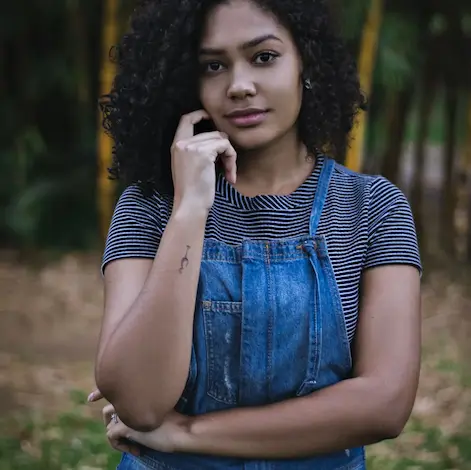
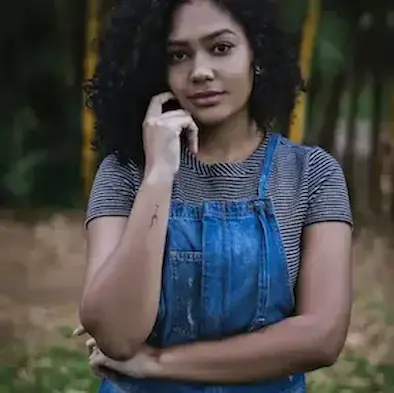
changement images /minifications

diff --git a/index.html b/index.html
@@ -12,16 +12,16 @@
     <meta name="twitter:description" content="Nina Carducci, photographe à Bordeaux, vous aidera à rendre vos moments uniques mémorables avec ses services de Shooting photo, Retouches photo et Album photo.">
     <meta name="twitter:creator" content="@Nina_Carducci">
     <meta name="twitter:image" content="./assets/images/Photo_Nina_Carducci">
-	<link rel="stylesheet" href="./assets/bootstrap/bootstrap.css">
-	<link rel="stylesheet" href="./assets/style.css">
+	<link rel="stylesheet" href="https://cdn.jsdelivr.net/npm/bootstrap@5.2.3/dist/css/bootstrap.min.css" integrity="sha384-rbsA2VBKQhggwzxH7pPCaAqO46MgnOM80zW1RWuH61DGLwZJEdK2Kadq2F9CUG65" crossorigin="anonymous" async>
+	<link rel="stylesheet" href="./assets/style.min.css" async>
 	<link rel="preconnect" href="https://fonts.googleapis.com">
 	<link rel="preconnect" href="https://fonts.gstatic.com" crossorigin>
 	<link href="https://fonts.googleapis.com/css2?family=Inter&family=Spectral:ital,wght@0,400;1,300;1,400;1,800&display=swap" rel="stylesheet">
 	
-	<script src="./assets/bootstrap/bootstrap.bundle.js"></script>
-	<script src="https://code.jquery.com/jquery-3.4.1.min.js" integrity="sha256-CSXorXvZcTkaix6Yvo6HppcZGetbYMGWSFlBw8HfCJo=" crossorigin="anonymous"></script>
-	<script src="./assets/maugallery.js"></script>
-	<script src="./assets/scripts.js"></script>
+	<script src="https://cdn.jsdelivr.net/npm/bootstrap@5.2.3/dist/js/bootstrap.bundle.min.js" integrity="sha384-kenU1KFdBIe4zVF0s0G1M5b4hcpxyD9F7jL+jjXkk+Q2h455rYXK/7HAuoJl+0I4" crossorigin="anonymous" defer></script>
+	<script src="https://code.jquery.com/jquery-3.4.1.min.js" integrity="sha256-CSXorXvZcTkaix6Yvo6HppcZGetbYMGWSFlBw8HfCJo=" crossorigin="anonymous" defer></script>
+	<script src="./assets/maugallery.min.js" defer></script>
+	<script src="./assets/scripts.min.js" defer></script>
 </head>
 
 <body>
@@ -50,13 +50,13 @@
 		</div>
 		<div class="carousel-inner">
 			<div class="carousel-item active">
-				<img src="./assets/images/desktop/slider/Photo_homme_sur_passage_piétons.webp" width="1654px"height="765px" srcset="./assets/images/desktop/slider/Photo_homme_sur_passage_piétons.webp 1450w, .assets/images/desktops/slider/Photo_homme_sur_passage_piétons.webp 650w"    class="d-block w-100" alt="Background photo de piétons" >
+				<img src="./assets/images/desktop/slider/Photo_homme_sur_passage_piétons.webp" width="1871px" height="865px" srcset="./assets/images/desktop/slider/Photo_homme_sur_passage_piétons.webp 1450w,./assets/images/phone/slider/Photo_homme_sur_passage_piétons.webp 450w" class="d-block w-100" alt="Background photo de piétons" >
 			</div>
 			<div class="carousel-item">
-				<img src="./assets/images/desktop/slider/Photo_gens_concert.webp" width="1654px"height="765px" srcset="./assets/images/desktop/slider/Photo_gens_concert.webp 1450w,.assets/images/desktop/slider/Photo_gens_concert 650w"   class="d-block w-100" alt="Background photo d'un public acclamant l'animateur">
+				<img src="./assets/images/desktop/slider/Photo_gens_concert.webp" srcset="./assets/images/desktop/slider/Photo_gens_concert.webp 1450w,./assets/images/phone/slider/Photo_gens_concert.webp 425w" class="d-block w-100" alt="Background photo d'un public acclamant l'animateur">
 			</div>
 			<div class="carousel-item">
-				<img src="./assets/images/desktop/slider/Photo_mariage.webp"width="1654px"height="765px"srcset="./assets/images/desktop/slider/Photo_mariage.webp 1450w , .assets/images/desktop/slider/Photo_mariage 650w" class="d-block w-100" alt="Background photo de mariés s'embrassant avec l'acclamations des proches ">
+				<img src="./assets/images/desktop/slider/Photo_mariage.webp" srcset="./assets/images/desktop/slider/Photo_mariage.webp 1450w,./assets/images/phone/slider/Photo_mariage.webp 425w" class="d-block w-100" alt="Background photo de mariés s'embrassant avec l'acclamations des proches ">
 			</div>
 		</div>
 		<button class="carousel-control-prev" type="button" data-bs-target="#carouselExampleIndicators" data-bs-slide="prev">
@@ -72,11 +72,11 @@
 
 <section id="about">
 	<div class="picture left">
-		<img src="./assets/images/desktop/nina.webp" width="471px" height="470px" srcset="./assets/images/desktop/nina.webp 1450w, ./assets/images/desktop/nina.webp 650w" alt="photo de Nina Carducci">
+		<img src="./assets/images/desktop/nina.webp" width="278px" height="542px" srcset="./assets/images/desktop/nina.webp 1450w,./assets/images/phone/nina.webp 245w"  alt="photo de Nina Carducci">
 	</div>
 	<div id="about-me">
 	<h2 class="about-me__title">A propos de moi</h2>
-		<p class="about-me__introduction">Devenir photographe était pour moi une évidence. Comme si j’y étais <br> prédestiné. Saisir un moment, une émotion, une situation, un <br>endroit, une lumière et les rendre immortels, voilà ce qui me fait vibrer.</p>
+		<p class="about-me__introduction">Devenir photographe était pour moi une évidence. Comme si j’y étais prédestiné. Saisir un moment, une émotion, une situation, un endroit, une lumière et les rendre immortels, voilà ce qui me fait vibrer.</p>
 		<p>Nous passons notre vie à chercher le bonheur, et lorsque nous y touchons, nous n’avons qu’une envie : le figer au travers de photographies pour le savourer avec les personnes qui sont importantes à nos yeux, ou le partager au plus grand nombre.
 			C’est ce que je vous propose : saisir ces merveilleux moments au travers de mon regard, mon approche, ma technique. Rendre ces moments immortels, afin que vous puissiez y puiser de l’amour, du bonheur, de la tendresse et de lumière à chaque fois que vous poserez les yeux sur vos photos.</p>
 	</div>
@@ -86,15 +86,15 @@
 	<h2 class="title">Portfolio</h2>
 	<div class="container py-3">
 		<div class="gallery" style="display: none">
-			<img data-gallery-tag="Concert" class="gallery-item" src="./assets/images/gallery/aaron-paul.webp"  height="424px" width="420px" srcset="./assets/images/gallery/aaron-paul.webp 1450w,./assets/images/gallery/aaron-paul.webp 650w"  alt="Photo concert rempli de monde avec lumière rouge.">
-			<img data-gallery-tag="Entreprises"class="gallery-item" src="./assets/images/gallery/ali-morshedlou.webp" height="424px" width="420px" srcset="./assets/images/gallery/ali-morshedlou.webp 1450w,./assets/images/gallery/ali-morshedlou.webp 650w "  alt="photo d'une entreprise">
-			<img data-gallery-tag="Entreprises" class="gallery-item" src="./assets/images/gallery/jason-goodman.webp" height="424px" width="420px" srcset="./assets/images/gallery/jason-goodman.webp 1450w,./assets/images/gallery/jason-goodman.webp 650w" alt="Photo d'une femme souriant lors d'une réunion en entreprise.">
-			<img data-gallery-tag="Mariages"class="gallery-item" src="./assets/images/gallery/hannah-busing.webp" height="424px" width="420px" srcset="./assets/images/gallery/hannah-busing.webp 1450w,./assets/images/gallery/hannah-busing.webp 650w" alt="Photo des mains de mariés avec alliance sur la mariée.">
-			<img data-gallery-tag="portrait"class="gallery-item" src="./assets/images/gallery/ade-tunji.webp" height="424px" width="420px" srcset="./assets/images/gallery/ade-tunji.webp 1450w,./assets/images/gallery/ade-tunji.webp 650w" alt="Photo d'un portrait de face d'un homme.">
-			<img data-gallery-tag="Mariages"class="gallery-item" src="./assets/images/gallery/jakob-owens.webp" height="424px" width="420px"srcset="./assets/images/gallery/jakob-owens.webp 1450w,./assets/images/gallery/jakob-owens.webp 650w" alt=" Photo de mariés avec un bouquet.">
-			<img data-gallery-tag="portrait" class="gallery-item" src="./assets/images/gallery/nino-van-prattenburg.webp" height="424px" width="420px" srcset="./assets/images/gallery/nino-van-prattenburg.webp 1450w,./assets/images/gallery/nino-van-prattenburg.webp 650w " alt="Photo de portrait d'une femme se tenant derrière des grilles.">
-			<img data-gallery-tag="Concert"class="gallery-item" src="./assets/images/gallery/austin-neill.webp"height="424px" width="420px" srcset="./assets/images/gallery/austin-neill.webp 1450w, ./assets/images/gallery/austin-neill.webp 650w" alt="Photo d'un chanteur animant un public.">
-			<img data-gallery-tag="Entreprises"class="gallery-item" src="./assets/images/gallery/mateus-campos.webp"height="424px" width="420px" srcset="./assets/images/gallery/mateus-campos.webp 1450w, ./assets/images/gallery/mateus-campos.webp 650w" alt="Photo d'une femme souriant à son bureau.">
+			<img data-gallery-tag="Concert" class="gallery-item" src="./assets/images/gallery/aaron-paul.webp"  height="424px" width="420px" srcset="./assets/images/gallery/aaron-paul.webp 650w"  alt="Photo concert rempli de monde avec lumière rouge.">
+			<img data-gallery-tag="Entreprises"class="gallery-item" src="./assets/images/gallery/ali-morshedlou.webp" height="424px" width="420px" srcset="./assets/images/gallery/ali-morshedlou.webp 650w "  alt="photo d'une entreprise">
+			<img data-gallery-tag="Entreprises" class="gallery-item" src="./assets/images/gallery/jason-goodman.webp" height="424px" width="420px" srcset="./assets/images/gallery/jason-goodman.webp 650w" alt="Photo d'une femme souriant lors d'une réunion en entreprise.">
+			<img data-gallery-tag="Mariages"class="gallery-item" src="./assets/images/gallery/hannah-busing.webp" height="424px" width="420px" srcset="./assets/images/gallery/hannah-busing.webp 650w" alt="Photo des mains de mariés avec alliance sur la mariée.">
+			<img data-gallery-tag="portrait"class="gallery-item" src="./assets/images/gallery/ade-tunji.webp" height="424px" width="420px" srcset="./assets/images/gallery/ade-tunji.webp 650w" alt="Photo d'un portrait de face d'un homme.">
+			<img data-gallery-tag="Mariages"class="gallery-item" src="./assets/images/gallery/jakob-owens.webp" height="424px" width="420px"srcset="./assets/images/gallery/jakob-owens.webp 650w" alt=" Photo de mariés avec un bouquet.">
+			<img data-gallery-tag="portrait" class="gallery-item" src="./assets/images/gallery/nino-van-prattenburg.webp" height="424px" width="420px" srcset="./assets/images/gallery/nino-van-prattenburg.webp 650w " alt="Photo de portrait d'une femme se tenant derrière des grilles.">
+			<img data-gallery-tag="Concert"class="gallery-item" src="./assets/images/gallery/austin-neill.webp"height="424px" width="420px" srcset="./assets/images/gallery/austin-neill.webp 650w" alt="Photo d'un chanteur animant un public.">
+			<img data-gallery-tag="Entreprises"class="gallery-item" src="./assets/images/gallery/mateus-campos.webp"height="424px" width="420px" srcset="./assets/images/gallery/mateus-campos.webp 650w" alt="Photo d'une femme souriant à son bureau.">
 		</div>
 	</div>
 	<div class="quote">
@@ -171,11 +171,71 @@
 			</form>
 		</div>
 		<div class="picture right">
-			<img src="./assets/images/desktop/camera.webp" width="418px" height="417px" srcset="./assets/images/desktop/camera.webp 1450w,./assets/images/desktop/camera.webp 650w " alt="photo camera">
+			<img src="./assets/images/desktop/camera.webp" width="259px" height="417px"  srcset="./assets/images/desktop/camera.webp 1450w,./assets/images/phone/camera.webp 245w " alt="photo camera">
 		</div>
 </section>
 </footer>
-
+<script type="application/ld+json">
+	{
+	  "@context": "https://schema.org",
+	  "@type": "LocalBusiness",
+	  "name": "NinaCarducci",
+	  "image": "",
+	  "@id": "",
+	  "url": "",
+	  "telephone": "05 56 67 78 89",
+	  "address": {
+		"@type": "PostalAddress",
+		"streetAddress": "68 avenue Alsace-Lorraine",
+		"addressLocality": "bordeaux",
+		"postalCode": "33200",
+		"addressCountry": "FR"
+	  },
+	  "geo": {
+		"@type": "GeoCoordinates",
+		"latitude": 44.8465743,
+		"longitude": -0.6065364999999999
+	  },
+	  "openingHoursSpecification": {
+		"@type": "OpeningHoursSpecification",
+		"dayOfWeek": [
+		  "Monday",
+		  "Tuesday",
+		  "Wednesday",
+		  "Thursday",
+		  "Friday"
+		],
+		"opens": "10:00",
+		"closes": "19:00"
+	  },
+	  "image": "./assets/images/desktop/nina.webp",
+		"priceRange": "Sur devis",
+		"hasOfferCatalog": {
+			"@type": "OfferCatalog",
+			"name": "Services de Nina Carducci",
+			"itemListElement": [
+			  {
+				"@type": "Offer",
+				"itemOffered": "Shooting photo",
+				"price": "350€/demi journée",
+				"priceCurrency": "EUR"
+			  },
+			  {
+				"@type": "Offer",
+				"itemOffered": "Retouches",
+				"price": "50€/photo",
+				"priceCurrency": "EUR"
+			  },
+			  {
+				"@type": "Offer",
+				"itemOffered": "Album photos",
+				"price": "400€ album A4, 30 pages recto/verso",
+				"priceCurrency": "EUR"
+			  } 
+			  ]
+	}
+}
+	</script>
 
 </body>
 </html>

diff --git a/assets/style.min.css b/assets/style.min.css
@@ -1,1 +1,1 @@
-.nav a,.nav-pills .nav-link{color:#000}.about-me__introduction,.quote,.quote__text{font-style:italic;font-family:Spectral}.quote,.quote__author,.quote__text{font-family:Spectral}.service,.top-header{background-color:#fff;display:flex}#about,#contact{padding-inline:100px;padding-block:100px}.picture.left::before,.picture.right::before{content:' ';width:374px;height:329px;bottom:0;z-index:-1}#about,#contact .container,.mg-next,.mg-prev,.nav ul,.service,.top-header,form{display:flex}body{max-width:1920px;margin:auto}*{font-family:Inter;font-style:normal}.top-header{position:sticky;top:0;z-index:1000;justify-content:space-between;padding-inline:100px;padding-block:30px;align-items:center}#about,#contact,#services,.item-column{position:relative}.top-header .name{font-size:26px}.nav ul{list-style-type:none;font-size:14px;margin-bottom:0}.nav li{padding-inline:10px}.nav a{text-decoration:none}.social-link img{width:20px}#about{background-color:#f6d2b8}.picture.left::before{background-color:#e5975f;position:absolute;left:0}.picture{flex:1;margin:0 20px;z-index:0}.picture img{width:100%}#about-me,.form-container{flex:2}.about-me__title{margin-top:1em;margin-bottom:60px;font-size:30px}.about-me__introduction{font-weight:800;width:60%}#about-me p{width:80%;font-size:14px}.title{text-align:center;padding-block:2em}.gallery .nav{justify-content:center}.nav-pills .nav-link.active,.nav-pills .show>.nav-link{color:#000;background-color:#beb45a;border-radius:0}.item-column{margin-bottom:0!important;padding:0}.item-column::after{content:"";display:block;padding-bottom:100%}.gallery-item{position:absolute;width:100%;height:100%;object-fit:cover;padding:.5em}.mg-next,.mg-prev{width:30px;height:30px;border-radius:00%;justify-content:center;align-items:center;font-size:24px}form input,form textarea{width:100%;background-color:transparent;border:1px solid;margin-bottom:20px}.quote{width:70%;margin:auto;padding-block:3em}.quote__text{font-weight:300}.quote__author{font-weight:800;font-size:22px}#services{margin:auto;background-color:#a8d5d8}#services .container::before{content:' ';background-color:#1c6474;position:absolute;width:100%;height:30%;bottom:0;left:0;z-index:0}#services .container{justify-content:space-between;display:flex;padding:2em 0}.service{max-width:390px;width:30%;height:337px;padding:1em;flex-direction:column;justify-content:space-between;z-index:1}#contact{margin:auto;background-color:#d8d3a8}.picture.right::before{background-color:#beb45a;position:absolute;right:0}form{flex-direction:column;width:70%;align-items:flex-start}form input{height:2.5em}form textarea{height:5em;line-height:2.5em;font-size:1.2em}input[type=submit]{background-color:#beb45a;padding:.5em 1em}@media all and (max-width:1180px){.picture{flex:2}#about,#contact .container{align-items:center}.about-me__title{margin-top:0;margin-bottom:1em}#about-me h6,#about-me p{width:100%}}@media all and (max-width:1000px){.picture.left::before,.picture.right::before{height:30%;position:absolute;z-index:-1;width:100%}#about,#contact .container,#services .container{flex-direction:column}.picture{width:50%}.picture.left::before{bottom:auto;top:0;left:0}.about-me__title{text-align:center;margin-top:1em}.service{width:100%;max-width:100%;height:auto;margin:2em 0}.service__description{margin-bottom:1em}#services .container::before{width:30%;height:100%;bottom:0;right:0;left:auto;z-index:0}#contact .picture.right{margin-top:1em}.picture.right::before{bottom:0;right:0}}@media all and (max-width:650px){.top-header{flex-direction:column;padding-inline:0}.top-header .nav,.top-header .nav ul{width:100%;padding:0}.top-header .nav li{flex:1;padding-block:1em;text-align:center}.picture.left::before,.picture.right::before{height:150px}#services .container{align-items:center}.service{max-width:90%}#about,#contact{padding-inline:2em;padding-block:2em}form{width:100%}.picture{width:80%}}
+.nav a,.nav-pills .nav-link{color:#000;font-weight: bold;}.about-me__introduction,.quote,.quote__text{font-style:italic;font-family:Spectral}.quote,.quote__author,.quote__text{font-family:Spectral}.service,.top-header{background-color:#fff;display:flex}#about,#contact{padding-inline:100px;padding-block:100px}.picture.left::before,.picture.right::before{content:' ';width:374px;height:329px;bottom:0;z-index:-1}#about,#contact .container,.mg-next,.mg-prev,.nav ul,.service,.top-header,form{display:flex}body{max-width:1920px;margin:auto}*{font-family:Inter;font-style:normal}.top-header{position:sticky;top:0;z-index:1000;justify-content:space-between;padding-inline:100px;padding-block:30px;align-items:center}#about,#contact,#services,.item-column{position:relative}.top-header .name{font-size:26px}.nav ul{list-style-type:none;font-size:14px;margin-bottom:0}.nav li{padding-inline:10px}.nav a{text-decoration:none}.social-link img{width:20px}#about{background-color:#f6d2b8}.picture.left::before{background-color:#e5975f;position:absolute;left:0}.picture{flex:1;margin:0 20px;z-index:0}.picture img{width:100%}#about-me,.form-container{flex:2}.about-me__title{margin-top:1em;margin-bottom:60px;font-size:30px}.about-me__introduction{font-weight:800;width:60%}#about-me p{width:80%;font-size:14px}.title{text-align:center;padding-block:2em}.gallery .nav{justify-content:center}.nav-pills .nav-link.active,.nav-pills .show>.nav-link{color:#000;background-color:#beb45a;border-radius:0}.item-column{margin-bottom:0!important;padding:0}.item-column::after{content:"";display:block;padding-bottom:100%}.gallery-item{position:absolute;width:100%;height:100%;object-fit:cover;padding:.5em}.mg-next,.mg-prev{width:30px;height:30px;border-radius:00%;justify-content:center;align-items:center;font-size:24px}form input,form textarea{width:100%;background-color:transparent;border:1px solid;margin-bottom:20px}.quote{width:70%;margin:auto;padding-block:3em}.quote__text{font-weight:300}.quote__author{font-weight:800;font-size:22px}#services{margin:auto;background-color:#a8d5d8}#services .container::before{content:' ';background-color:#1c6474;position:absolute;width:100%;height:30%;bottom:0;left:0;z-index:0}#services .container{justify-content:space-between;display:flex;padding:2em 0}.service{max-width:390px;width:30%;height:337px;padding:1em;flex-direction:column;justify-content:space-between;z-index:1}#contact{margin:auto;background-color:#d8d3a8}.picture.right::before{background-color:#beb45a;position:absolute;right:0}form{flex-direction:column;width:70%;align-items:flex-start}form input{height:2.5em}form textarea{height:5em;line-height:2.5em;font-size:1.2em}input[type=submit]{background-color:#beb45a;padding:.5em 1em}@media all and (max-width:1180px){.picture{flex:2}#about,#contact .container{align-items:center}.about-me__title{margin-top:0;margin-bottom:1em}#about-me h6,#about-me p{width:100%}}@media all and (max-width:1000px){.picture.left::before,.picture.right::before{height:30%;position:absolute;z-index:-1;width:100%}#about,#contact .container,#services .container{flex-direction:column}.picture{width:50%}.picture.left::before{bottom:auto;top:0;left:0}.about-me__title{text-align:center;margin-top:1em}.service{width:100%;max-width:100%;height:auto;margin:2em 0}.service__description{margin-bottom:1em}#services .container::before{width:30%;height:100%;bottom:0;right:0;left:auto;z-index:0}#contact .picture.right{margin-top:1em}.picture.right::before{bottom:0;right:0}}@media all and (max-width:650px){.top-header{flex-direction:column;padding-inline:0}.top-header .nav,.top-header .nav ul{width:100%;padding:0}.top-header .nav li{flex:1;padding-block:1em;text-align:center}.picture.left::before,.picture.right::before{height:150px}#services .container{align-items:center}.service{max-width:90%}#about,#contact{padding-inline:2em;padding-block:2em}form{width:100%}.picture{width:80%}}

diff --git a/assets/maugallery.min.js b/assets/maugallery.min.js
@@ -1,0 +1,12 @@
+!function(t){t.fn.mauGallery=function(a){var a=t.extend(t.fn.mauGallery.defaults,a),e=[];return this.each(function(){t.fn.mauGallery.methods.createRowWrapper(t(this)),a.lightBox&&t.fn.mauGallery.methods.createLightBox(t(this),a.lightboxId,a.navigation),t.fn.mauGallery.listeners(a),t(this).children(".gallery-item").each(function(l){t.fn.mauGallery.methods.responsiveImageItem(t(this)),t.fn.mauGallery.methods.moveItemInRowWrapper(t(this)),t.fn.mauGallery.methods.wrapItemInColumn(t(this),a.columns);var i=t(this).data("gallery-tag");a.showTags&&void 0!==i&&-1===e.indexOf(i)&&e.push(i)}),a.showTags&&t.fn.mauGallery.methods.showItemTags(t(this),a.tagsPosition,e),t(this).fadeIn(500)})},t.fn.mauGallery.defaults={columns:3,lightBox:!0,lightboxId:null,showTags:!0,tagsPosition:"bottom",navigation:!0},t.fn.mauGallery.listeners=function(a){t(".gallery-item").on("click",function(){a.lightBox&&"IMG"===t(this).prop("tagName")&&t.fn.mauGallery.methods.openLightBox(t(this),a.lightboxId)}),t(".gallery").on("click",".nav-link",t.fn.mauGallery.methods.filterByTag),t(".gallery").on("click",".mg-prev",()=>t.fn.mauGallery.methods.prevImage(a.lightboxId)),t(".gallery").on("click",".mg-next",()=>t.fn.mauGallery.methods.nextImage(a.lightboxId))},t.fn.mauGallery.methods={createRowWrapper(t){t.children().first().hasClass("row")||t.append('<div class="gallery-items-row row"></div>')},wrapItemInColumn(t,a){if(a.constructor===Number)t.wrap(`<div class='item-column mb-4 col-${Math.ceil(12/a)}'></div>`);else if(a.constructor===Object){var e="";a.xs&&(e+=` col-${Math.ceil(12/a.xs)}`),a.sm&&(e+=` col-sm-${Math.ceil(12/a.sm)}`),a.md&&(e+=` col-md-${Math.ceil(12/a.md)}`),a.lg&&(e+=` col-lg-${Math.ceil(12/a.lg)}`),a.xl&&(e+=` col-xl-${Math.ceil(12/a.xl)}`),t.wrap(`<div class='item-column mb-4${e}'></div>`)}else console.error(`Columns should be defined as numbers or objects. ${typeof a} is not supported.`)},moveItemInRowWrapper(t){t.appendTo(".gallery-items-row")},responsiveImageItem(t){"IMG"===t.prop("tagName")&&t.addClass("img-fluid")},openLightBox(a,e){t(`#${e}`).find(".lightboxImage").attr("src",a.attr("src")),t(`#${e}`).modal("toggle")},prevImage(){let a=null;t("img.gallery-item").each(function(){t(this).attr("src")===t(".lightboxImage").attr("src")&&(a=t(this))});let e=t(".tags-bar span.active-tag").data("images-toggle"),l=[];"all"===e?t(".item-column").each(function(){t(this).children("img").length&&l.push(t(this).children("img"))}):t(".item-column").each(function(){t(this).children("img").data("gallery-tag")===e&&l.push(t(this).children("img"))});let i=0,s=null;t(l).each(function(e){t(a).attr("src")===t(this).attr("src")&&(i=e)}),s=l[i-1]||l[l.length-1],t(".lightboxImage").attr("src",t(s).attr("src"))},nextImage(){let a=null;t("img.gallery-item").each(function(){t(this).attr("src")===t(".lightboxImage").attr("src")&&(a=t(this))});let e=t(".tags-bar span.active-tag").data("images-toggle"),l=[];"all"===e?t(".item-column").each(function(){t(this).children("img").length&&l.push(t(this).children("img"))}):t(".item-column").each(function(){t(this).children("img").data("gallery-tag")===e&&l.push(t(this).children("img"))});let i=0,s=null;t(l).each(function(e){t(a).attr("src")===t(this).attr("src")&&(i=e)}),s=l[i+1]||l[0],t(".lightboxImage").attr("src",t(s).attr("src"))},createLightBox(t,a,e){t.append(`<div class="modal fade" id="${a||"galleryLightbox"}" tabindex="-1" role="dialog" aria-hidden="true">
+                <div class="modal-dialog" role="document">
+                    <div class="modal-content">
+                        <div class="modal-body">
+                            ${e?'<div class="mg-prev" style="cursor:pointer;position:absolute;top:50%;left:-15px;background:white;"><</div>':""}
+                            <img class="lightboxImage img-fluid" alt="Contenu de l'image affich\xc3\xa9e dans la modale au clique"/>
+                            ${e?'<div class="mg-next" style="cursor:pointer;position:absolute;top:50%;right:-15px;background:white;}">></div>':""}
+                        </div>
+                    </div>
+                </div>
+            </div>`)},showItemTags(a,e,l){var i='<li class="nav-item"><span class="nav-link active active-tag"  data-images-toggle="all">Tous</span></li>';t.each(l,function(t,a){i+=`<li class="nav-item active">
+                <span class="nav-link"  data-images-toggle="${a}">${a}</span></li>`});var s=`<ul class="my-4 tags-bar nav nav-pills">${i}</ul>`;"bottom"===e?a.append(s):"top"===e?a.prepend(s):console.error(`Unknown tags position: ${e}`)},filterByTag(){t(".active-tag").removeClass("active active-tag"),t(this).addClass("active active-tag");var a=t(this).data("images-toggle");t(".gallery-item").each(function(){t(this).parents(".item-column").hide(),"all"===a?t(this).parents(".item-column").show(300):t(this).data("gallery-tag")===a&&t(this).parents(".item-column").show(300)})}}}(jQuery);

diff --git a/assets/scripts.min.js b/assets/scripts.min.js
@@ -1,0 +1,1 @@
+$(document).ready(function(){$(".gallery").mauGallery({columns:{xs:1,sm:2,md:3,lg:3,xl:3},lightBox:!0,lightboxId:"myAwesomeLightbox",showTags:true,tagsPosition:"top"})});

diff --git a/assets/style.css b/assets/style.css
@@ -107,7 +107,8 @@ body {
 }
 
 .nav-pills .nav-link {
-	color: #000
+	color: #000;
+	font-weight: bold;
 }
 .item-column {
 	position: relative;
